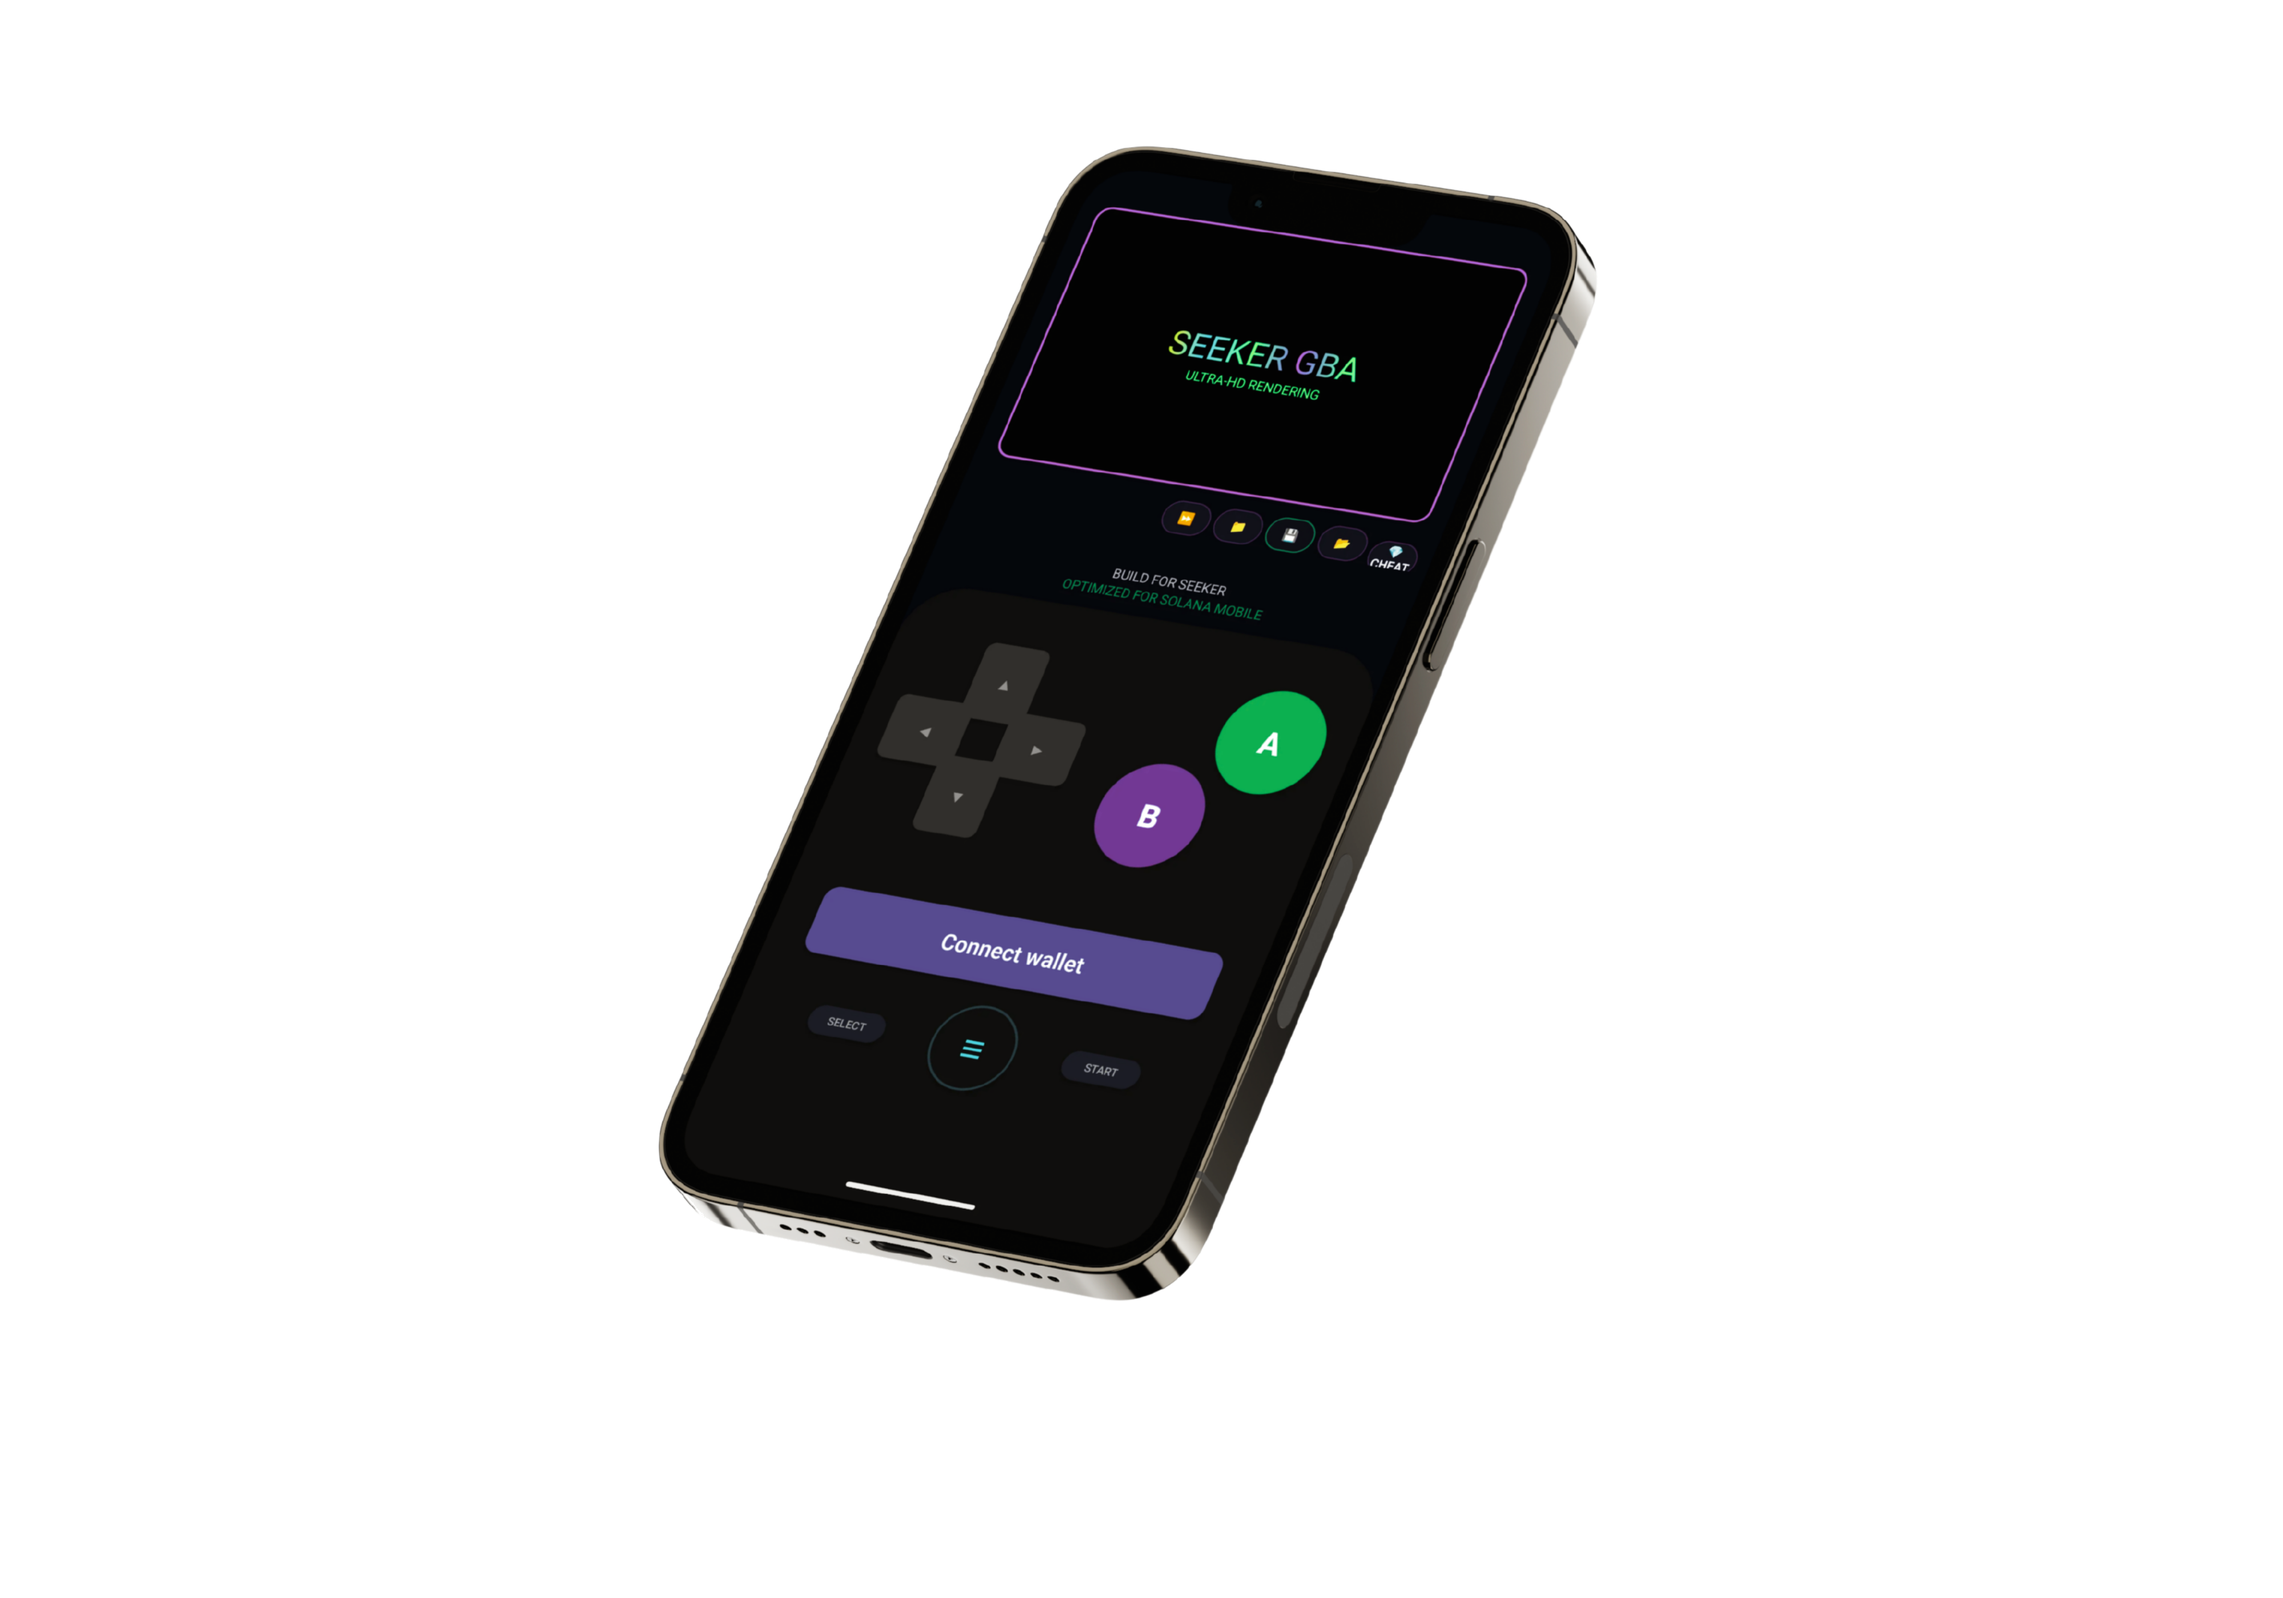
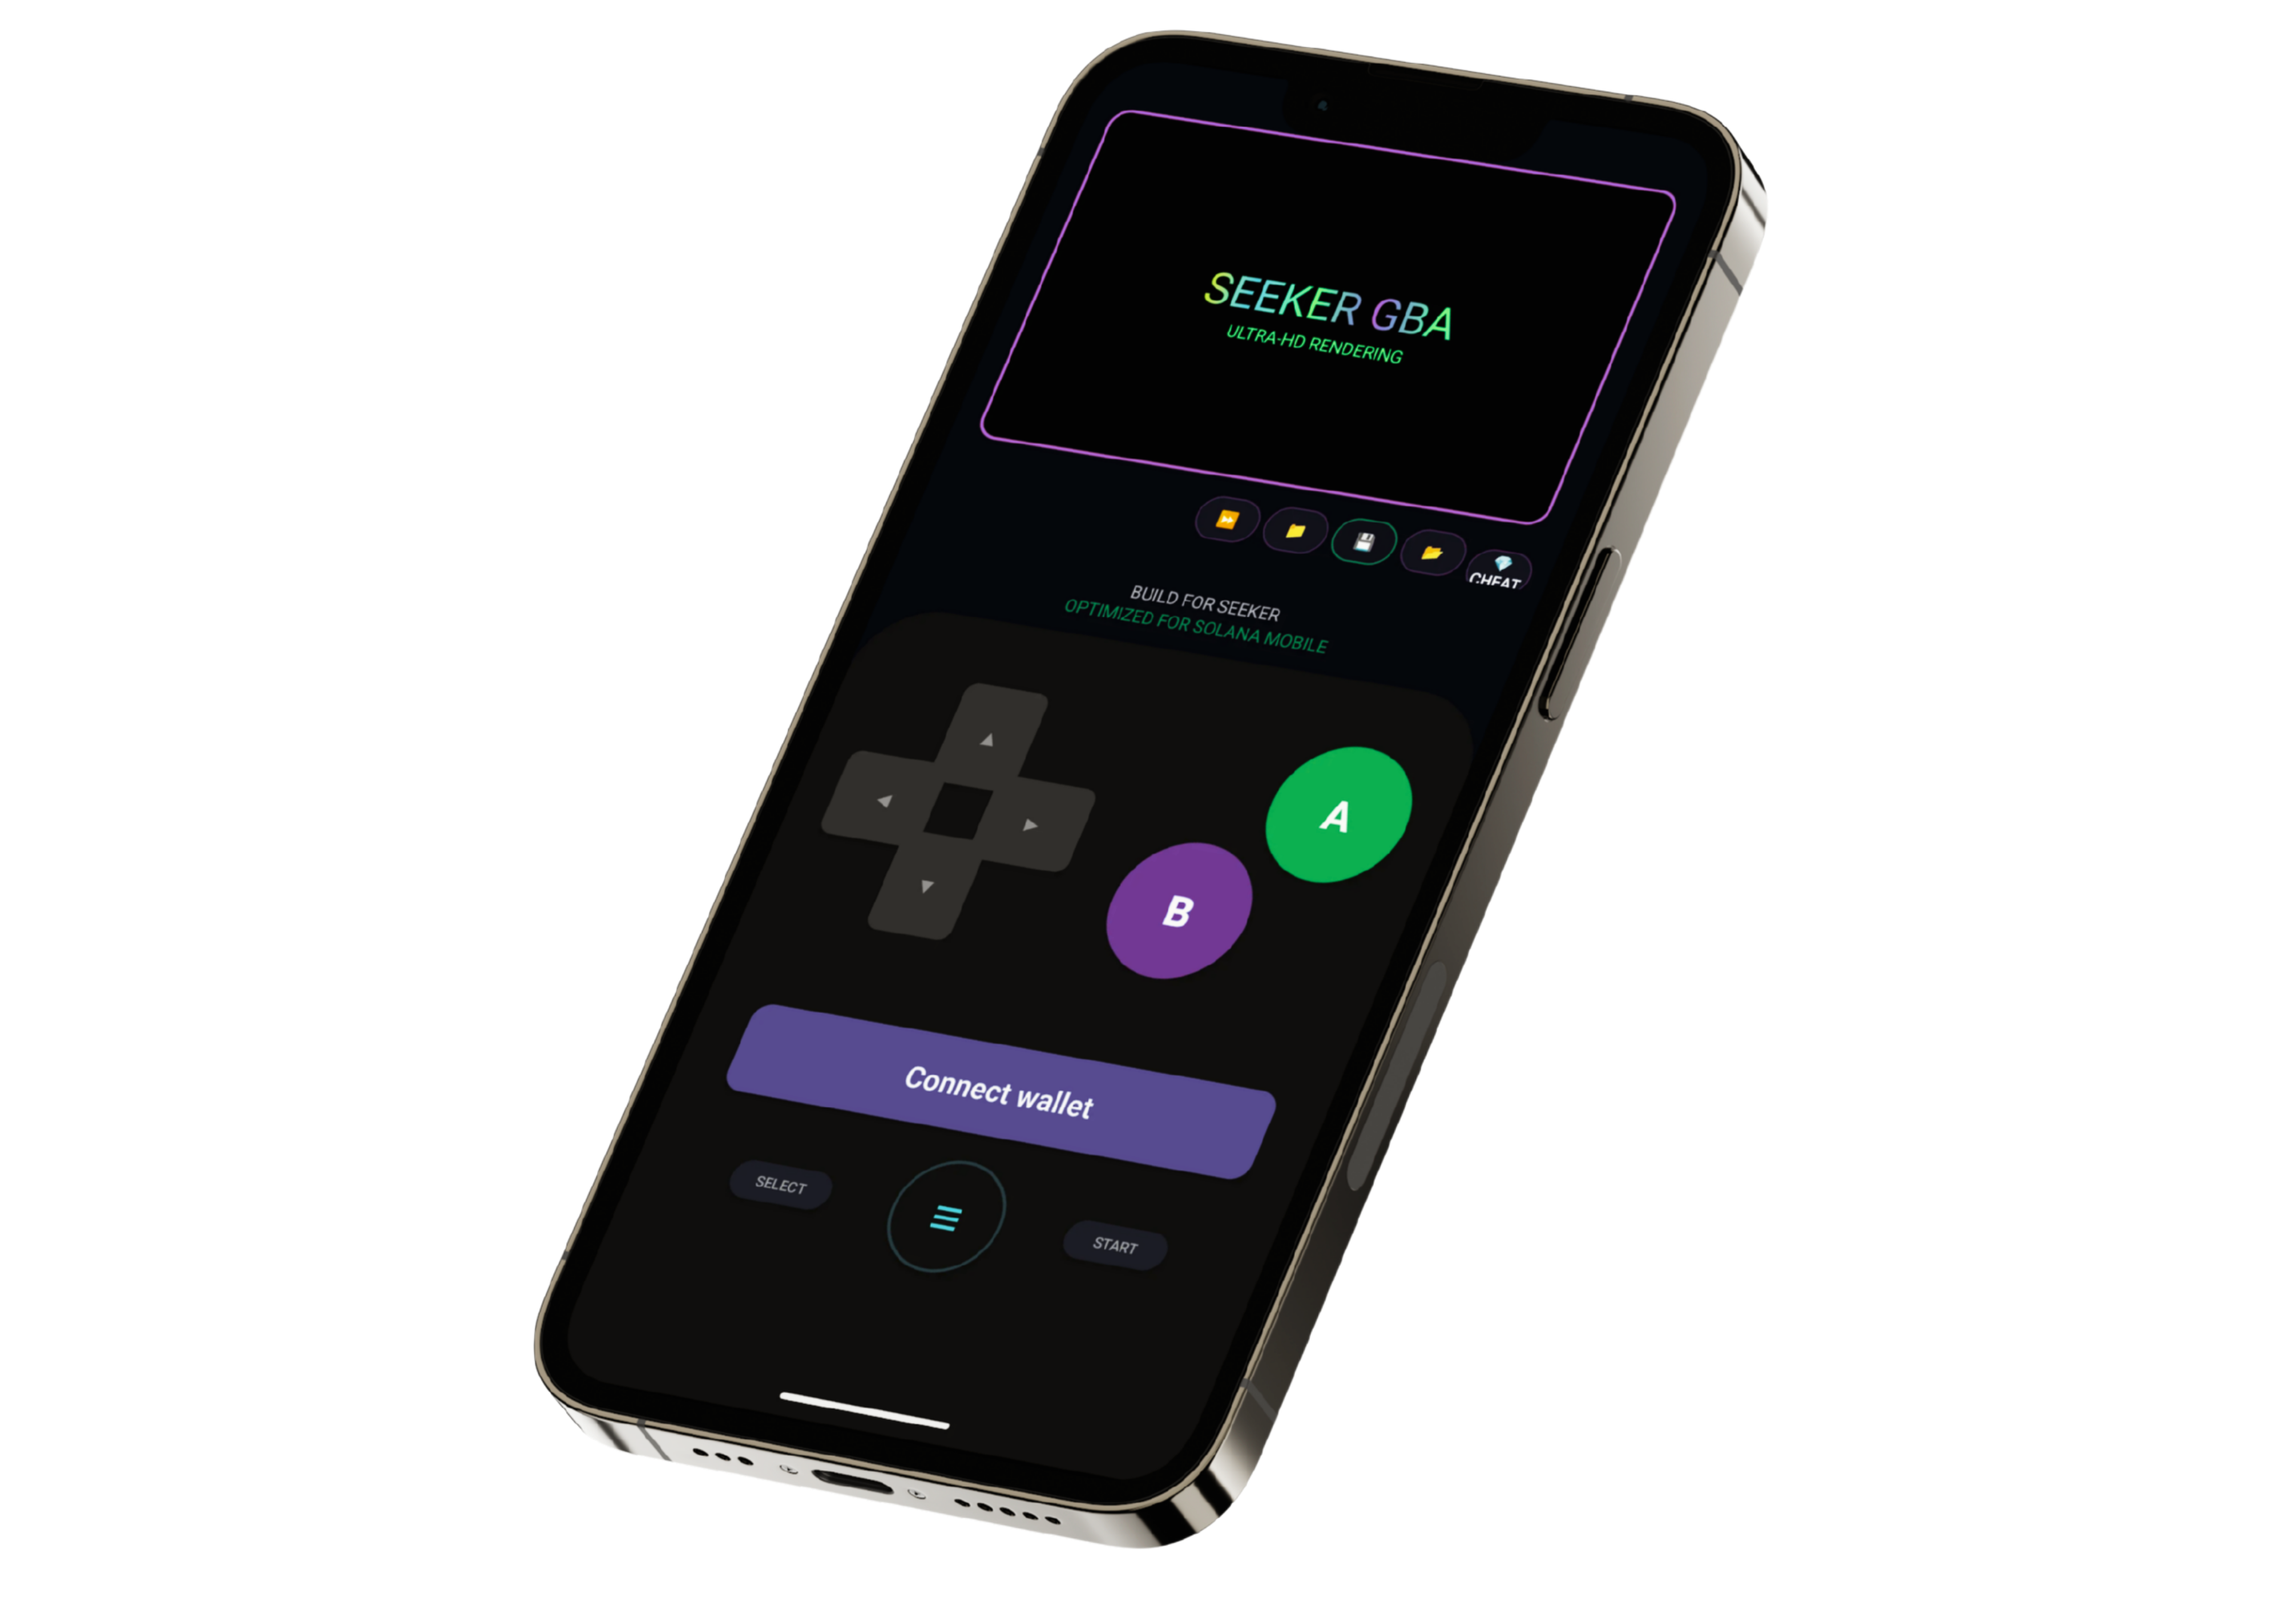
Replace mobile mockup with larger version, remove size constraints

Changed region(s): [[0.2188, 0.0, 0.7812, 0.9943]]

diff --git a/index.html b/index.html
@@ -930,7 +930,7 @@ footer{
   .hero-grid{grid-template-columns:1fr;gap:1.5rem}
   .hero-visual{order:-1;padding:0}
   .hero-desktop{display:none}
-  .hero-mobile{display:block;max-width:95vw}
+  .hero-mobile{display:block;width:100%;max-width:none}
   .hero-visual::before{width:340px;height:340px;top:0}
   .container,.container-narrow{padding:0 1.25rem}
   /* Smoother mobile feel */
